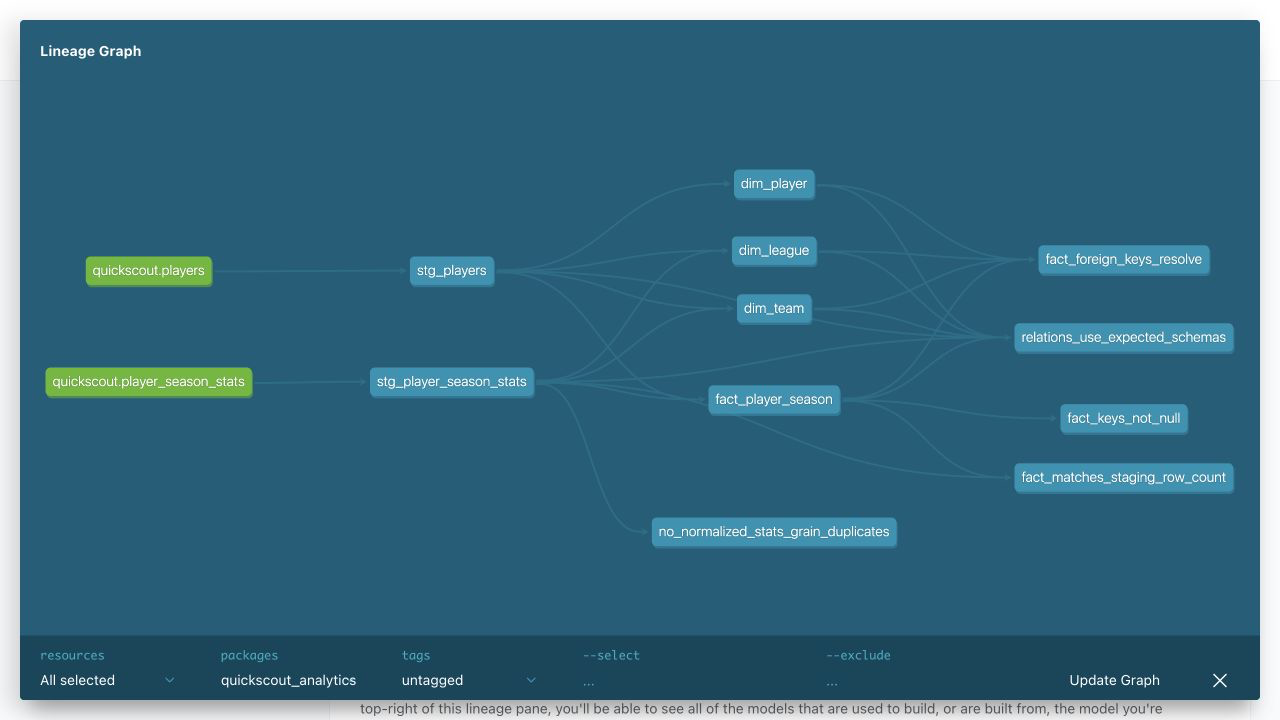
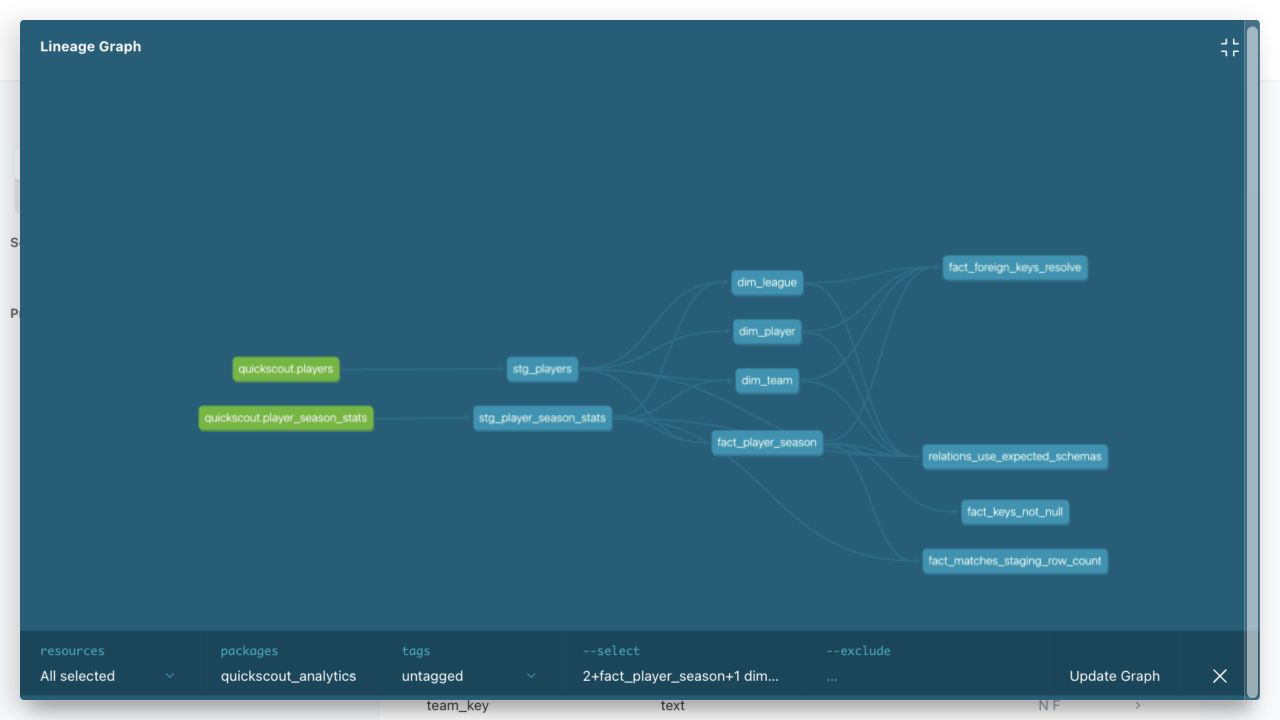
docs: add dbt lineage snapshot to README

diff --git a/README.md b/README.md
@@ -45,9 +45,12 @@ dbt creates these relations:
 
 ### Analytics contract
 
-`fact_player_season` has one row per `provider_source × player × normalized_season × competition_identity`. The canonical `player_season_id` is the same deterministic value as the backward-compatible `fact_player_season_key`; both columns are tested as non-null and unique.
+![fact_player_season dbt lineage graph](docs/analytics/dbt-lineage.png)
 
-Referential-integrity tests cover all three layers: source season stats resolve to source players, staging season stats resolve to staging players, and every fact row resolves to `dim_player`, `dim_team`, and `dim_league`.
+- **Grain:** One row per `provider_source × player × normalized_season × competition_identity`.
+- **Data quality:** `not_null`/`unique` key checks, relationships to three dimensions, metric constraints, and row-count preservation from staging.
+
+The canonical `player_season_id` is the same deterministic value as the backward-compatible `fact_player_season_key`. Additional relationship tests ensure source season stats resolve to source players and staging season stats resolve to staging players.
 
 The project defines exactly two custom business-rule test macros:
 
@@ -75,8 +78,6 @@ Analytics Phase 0 was validated against hosted Supabase through the SSL-enabled 
 | Competition identities | 2 |
 
 Row preservation was exact: `40 staging rows = 40 fact rows`. Duplicate checks for `fact_player_season_key` and `source_stats_id` returned zero rows, and all fact keys resolved to their dimensions without nulls or orphans. This hosted run predates the additive `player_season_id` alias and therefore reports 74 rather than the current 76 tests.
-
-![Hosted dbt lineage graph](docs/analytics/dbt-lineage.png)
 
 ### Run dbt locally
 

diff --git a/ROADMAP.md b/ROADMAP.md
@@ -155,6 +155,7 @@ Aligned with [README.md](README.md) provider integration plan.
 - [x] Add grain, metric, row-count, foreign-key, and exact-schema tests
 - [x] Add canonical `player_season_id` while preserving `fact_player_season_key` compatibility
 - [x] Run `dbt debug`, 6 models, 76 tests, key-alias validation, and docs generation in GitHub Actions (`82/82` passed on 2026-08-10)
+- [x] Add a recruiter-facing dbt lineage snapshot and fact grain/data-quality summary to README
 - [x] Document local operation and the current-team fallback limitation
 - [x] Validate `dbt debug` and two consecutive `dbt build` runs against hosted Supabase (`80/80` passed in both builds on 2026-08-07)
 
